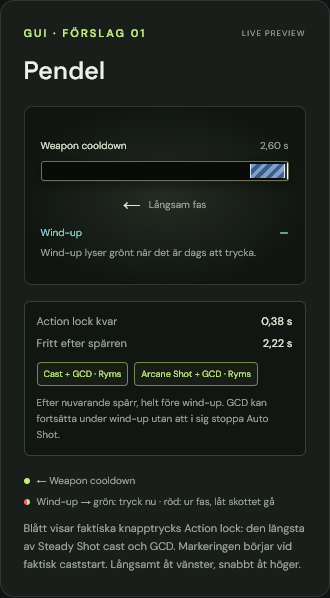
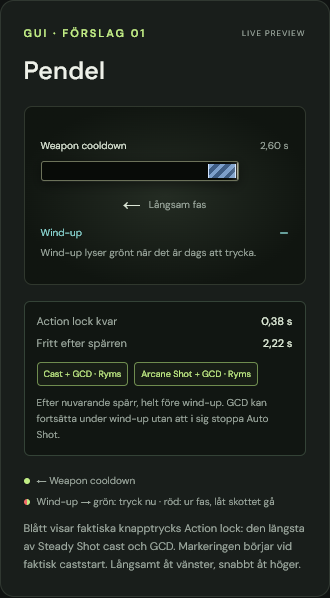
0.4.0: röd förskjutningssiffra till höger om baren
Visar hur mycket det senaste Auto Shot försköts mot en ostörd cykel,
med en decimal (t.ex. +0,8), i både addonen och simulatorns pendel.
Addonen visar den från 0,15 s eftersom skotten varierar cirka ±0,1 s
även utan clipping, och bara inom en sammanhängande Auto Shot-serie.

Changed region(s): [[0.7576, 0.2709, 0.8788, 0.301], [0.6061, 0.2709, 0.7273, 0.301]]

diff --git a/swing-lab/dist/index.html b/swing-lab/dist/index.html
@@ -44,9 +44,9 @@
 <h2>Pendel</h2>
 <div class="hud-stage">
 <div class="hud-readout"><span id="pendulumPhase">Auto Shot wind-up</span><span id="pendulumRemaining">0,50 s</span></div>
-<div id="pendulumTrack" class="pendulum-track" role="progressbar" aria-label="Pendel" aria-valuemin="0" aria-valuemax="100" aria-valuenow="0">
+<div class="pendulum-row"><div id="pendulumTrack" class="pendulum-track" role="progressbar" aria-label="Pendel" aria-valuemin="0" aria-valuemax="100" aria-valuenow="0">
 <div id="pendulumFill" class="pendulum-fill"></div><div id="pendulumLocks" class="pendulum-locks"></div><div id="pendulumCursor" class="pendulum-cursor"></div>
-</div>
+</div><span id="pendulumDelay" class="pendulum-delay" title="Hur mycket senaste Auto Shot försköts"></span></div>
 <div class="hud-state"><span id="pendulumDirection">→</span><span id="pendulumStatus">Starta simuleringen</span></div>
 <div class="hud-windup-readout"><span id="hudWindupWindowLabel">Wind-up</span><strong id="hudWindupWindowValue">—</strong></div>
 <p id="hudWindupWindowHint" class="hud-windup-hint">Wind-up lyser grönt när det är dags att trycka.</p>

diff --git a/swing-lab/dist/app.js b/swing-lab/dist/app.js
@@ -52,6 +52,8 @@ function render(readouts = true) {
   fill.style.transformOrigin = pendulum.origin;
   fill.style.background = pendulum.color;
   cursor.style.transform = `translateX(${pendulum.cursor * 100}%)`;
+  // Red delay of the last Auto Shot, one decimal, right of the bar.
+  text('pendulumDelay', sim.delay >= 0.05 ? '+' + number(sim.delay, 1) : '');
   if (readouts) renderWindupStatus(sim);
   if (readouts) {
     const budget = actionBudget(sim);

diff --git a/swing-lab/dist/lab.css b/swing-lab/dist/lab.css
@@ -117,3 +117,6 @@
 @media(max-width:530px) { .auto-heading { align-items:flex-start; flex-direction:column; } }
 
 .presets{display:flex;flex-wrap:wrap;gap:8px;margin:4px 0 8px}
+.pendulum-row{display:flex;align-items:center;gap:8px}
+.pendulum-row .pendulum-track{flex:1}
+.pendulum-delay{min-width:3.2em;color:#ef6969;font-weight:600;font-size:13px;font-variant-numeric:tabular-nums}

diff --git a/CLAUDE.md b/CLAUDE.md
@@ -40,7 +40,7 @@ There is no test filter; `addon/tests/run.lua` is a single script of `test(name,
 Load order (from the `.toc`): `Model.lua` → `Display.lua` → `OzzySwingTimer.lua`. Files share state through the addon namespace (`local _, ns = ...`; `ns.Model`, `ns.Display`, and at runtime `ns.model`/`ns.display`).
 
 - **Model.lua** — pure timing state machine, no WoW API calls. Phases: weapon cooldown (slow fill right→left), wind-up (fast fill left→right), `blocked`. Tracks cast and GCD "locks" and renders their **union** (not sum) as `Segments()`, including GCD carried into the next cycle. `InPhase()` makes wind-up green ("press now") when every lock that started before the wind-up ends by the shot, and red ("out of phase, let one Auto Shot pass untouched") otherwise; a GCD started by a press during the wind-up is ignored. There is no flash or queue-window frame by design. `View(now)` produces what the display paints.
-- **Display.lua** — WoW frame/texture construction and `Paint(view, forceVisible)`. In-game bar shows no text or numbers by design.
+- **Display.lua** — WoW frame/texture construction and `Paint(view, forceVisible)`. In-game bar shows no text by design, only a red "+0,8"-style Auto Shot delay right of the bar (from `Model.DELAY_THRESHOLD`, 0.15 s, above measured jitter).
 - **OzzySwingTimer.lua** — event wiring, `/ozs` slash command (`SlashCmdList.OZZYSWINGTIMER`), SavedVariables `OzzySwingTimerDB`, debug log (last 200 events), and test/demo mode.
 
 Key modeling rules to preserve (see addon README for detail):

diff --git a/addon/OzzySwingTimer/README.md b/addon/OzzySwingTimer/README.md
@@ -1,4 +1,4 @@
-# Ozzy Swing Timer – TBC Classic 0.3.0
+# Ozzy Swing Timer – TBC Classic 0.4.0
 
 Första spelbara prototypen för **TBC Classic Anniversary 2.5.6**, Interface 20506.
 Själva addonmappen kräver inga bibliotek eller andra addons.
@@ -18,11 +18,12 @@ Om du redan är inloggad: prova `/reload`. Starta om klienten om den nya mappen 
 - `/ozs lock` låser baren. Den döljs då när Auto Shot är avstängt.
 - Skjut Auto Shot mot ett mål, och prova sedan Steady Shot under den snabba fasen.
 
-Baren innehåller inga texter eller sekundvärden:
+Baren har en enda siffra, den röda förskjutningen till höger:
 
 - **Weapon cooldown:** långsam fyllning från höger till vänster.
 - **Auto Shot wind-up, grön:** dags att trycka. Steady Shot köas till skottet, och dess GCD börjar redan vid trycket.
 - **Auto Shot wind-up, röd:** ur fas. Cast eller GCD hänger kvar över wind-up. Tryck inget, låt ett orört Auto Shot gå för att komma i takt igen.
+- **Röd siffra till höger, t.ex. +0,8:** hur många sekunder det senaste Auto Shot försköts jämfört med en ostörd cykel. Visas från 0,15 s, eftersom skotten varierar cirka ±0,1 s även utan clipping. Försvinner när ett skott kommer i tid.
 - **Blå diagonal markering:** faktisk spell cast och GCD tillsammans. Överlapp räknas en gång; GCD som fortsätter in i nästa cykel visas där också.
 
 ## Kommandon

diff --git a/PROJEKTBESKRIVNING.md b/PROJEKTBESKRIVNING.md
@@ -45,9 +45,11 @@ Grunden är en pendelbar:
 4. Wind-up är **röd** när spelaren är ur fas, alltså när cast eller GCD hänger kvar över wind-up. Då ska spelaren inte trycka utan låta ett orört Auto Shot gå för att komma i takt igen.
 5. En **blå diagonal markering** visar hur mycket av Weapon cooldown som upptas av cast/GCD, så att spelaren grovt ser hur mycket tid som är kvar för en spell till. Om en spärr fortsätter in i nästa cykel visas den där också.
 
+6. En **röd siffra till höger** om baren, till exempel **+0,8**, visar hur mycket det senaste Auto Shot försköts. Den syns bara när skottet faktiskt kom för sent.
+
 Målet (2026-10-31): få plats med en Steady Shot och en instant i den långsamma fasen utan att Auto Shot skjuts upp. Om det får plats beror på vapnet och haste. Flashen och den turkosa ramen är borttagna (0.3.0); signalen ska gå att läsa i ögonvrån.
 
-Spelversionen visar bara baren och dess innehåll, utan fasnamn eller sekundvärden. Mer detaljerad information hör hemma i simulatorn eller diagnostiken.
+Spelversionen visar bara baren och förskjutningssiffran, utan fasnamn eller andra sekundvärden. Mer detaljerad information hör hemma i simulatorn eller diagnostiken.
 
 ## Vad vi har byggt hittills
 
